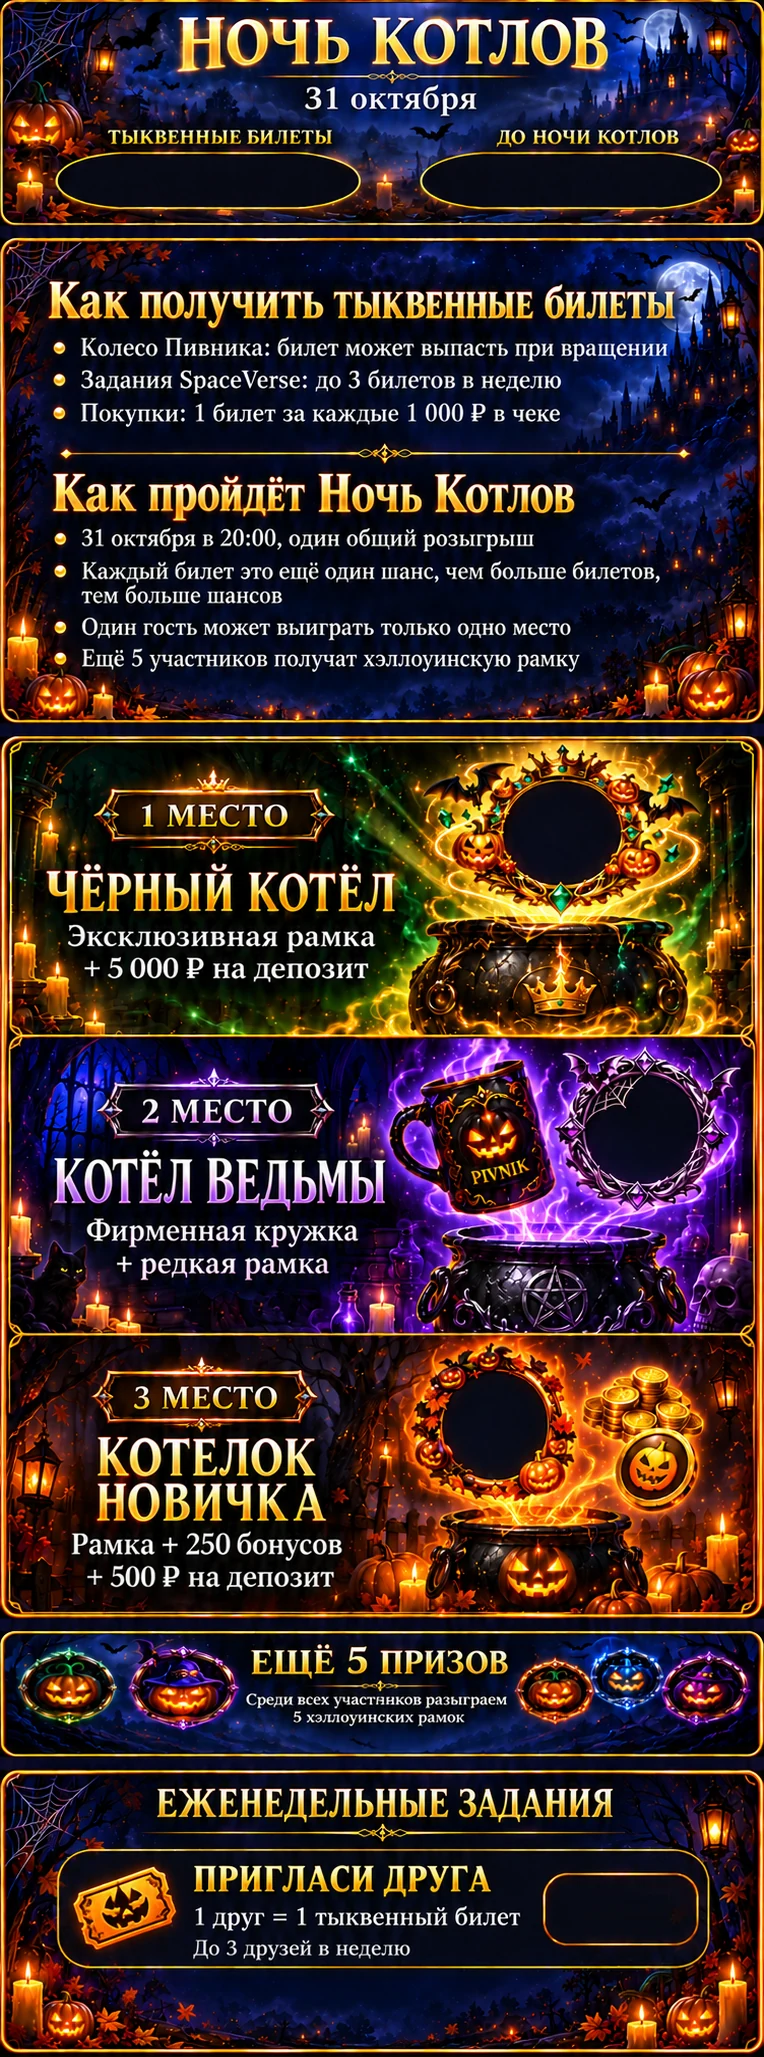
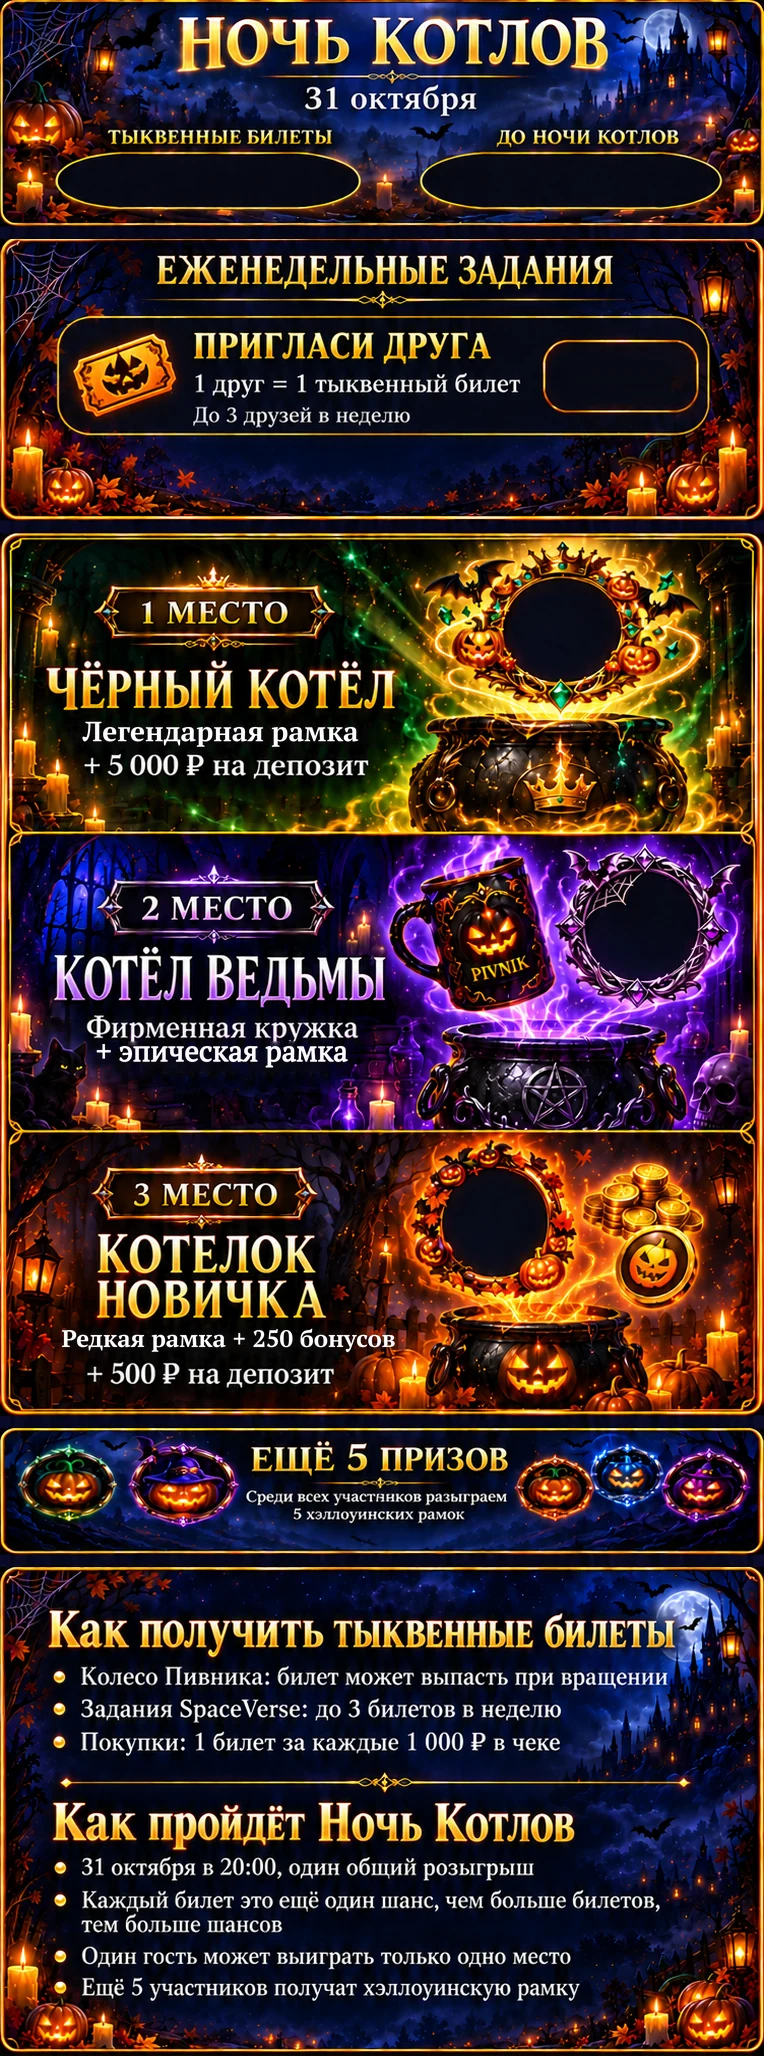
Halloween tab: weekly tasks right under the header, rules at the bottom; frames renamed to legendary, epic and rare
Claude-Session: https://claude.ai/code/session_01RgdK9nJdDDTSAHndA4eHr7

diff --git a/index.html b/index.html
@@ -172,14 +172,14 @@
           <button class="halloween-invite" id="halloweenInvite" type="button" aria-label="Пригласить друга: 1 друг — 1 тыквенный билет, до 3 друзей в неделю"><b id="halloweenInviteCount">0/3</b></button>
           <div class="halloween-board-text">
             <h2>Ночь Котлов, 31 октября</h2>
+            <h3>Еженедельные задания: пригласи друга</h3>
+            <p>1 друг — 1 тыквенный билет, до 3 друзей в неделю. Билет начисляется после первой покупки друга.</p>
+            <h3>Призы</h3>
+            <p>1 место, Чёрный котёл: легендарная рамка и 5 000 ₽ на депозит. 2 место, Котёл ведьмы: фирменная кружка и эпическая рамка. 3 место, Котелок новичка: редкая рамка, 250 бонусов и 500 ₽ на депозит. Ещё 5 участников получат хэллоуинскую рамку.</p>
             <h3>Как получить тыквенные билеты</h3>
             <p>Колесо Пивника: билет может выпасть при вращении. Задания SpaceVerse: до 3 билетов в неделю. Покупки: 1 билет за каждые 1 000 ₽ в чеке.</p>
             <h3>Как пройдёт Ночь Котлов</h3>
-            <p>31 октября в 20:00, один общий розыгрыш. Каждый билет это ещё один шанс. Один гость может выиграть только одно место. Ещё 5 участников получат хэллоуинскую рамку.</p>
-            <h3>Призы</h3>
-            <p>1 место, Чёрный котёл: эксклюзивная рамка и 5 000 ₽ на депозит. 2 место, Котёл ведьмы: фирменная кружка и редкая рамка. 3 место, Котелок новичка: рамка, 250 бонусов и 500 ₽ на депозит.</p>
-            <h3>Пригласи друга</h3>
-            <p>1 друг — 1 тыквенный билет, до 3 друзей в неделю. Билет начисляется после первой покупки друга.</p>
+            <p>31 октября в 20:00, один общий розыгрыш. Каждый билет это ещё один шанс. Один гость может выиграть только одно место.</p>
           </div>
         </div>
         <button class="halloween-business-link" id="halloweenToBusiness" type="button">SpaceVerse для бизнеса ›</button>

diff --git a/styles.css b/styles.css
@@ -10471,8 +10471,8 @@ html.theme-halloween .halloween-screen.active { display: grid; gap: 12px; }
 html.theme-halloween .halloween-board {
   position: relative;
   width: 100%;
-  aspect-ratio: 764 / 2057;
-  background: url('/assets/halloween/halloween-tab.webp?v=1') center / 100% 100% no-repeat;
+  aspect-ratio: 764 / 2056;
+  background: url('/assets/halloween/halloween-tab.webp?v=2') center / 100% 100% no-repeat;
 }
 html.theme-halloween .halloween-tickets,
 html.theme-halloween .halloween-timer {
@@ -10494,7 +10494,7 @@ html.theme-halloween .halloween-timer { left: 55.1%; width: 39.1%; }
 html.theme-halloween .halloween-invite {
   position: absolute;
   left: 7.2%;
-  top: 89.94%;
+  top: 15.42%;
   width: 85.7%;
   height: 5.59%;
   margin: 0;
